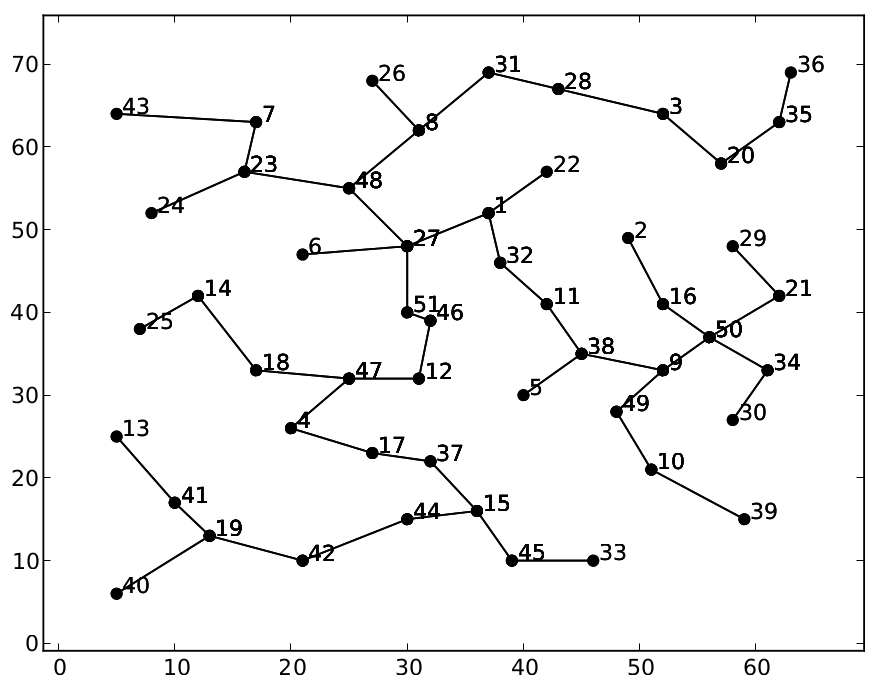
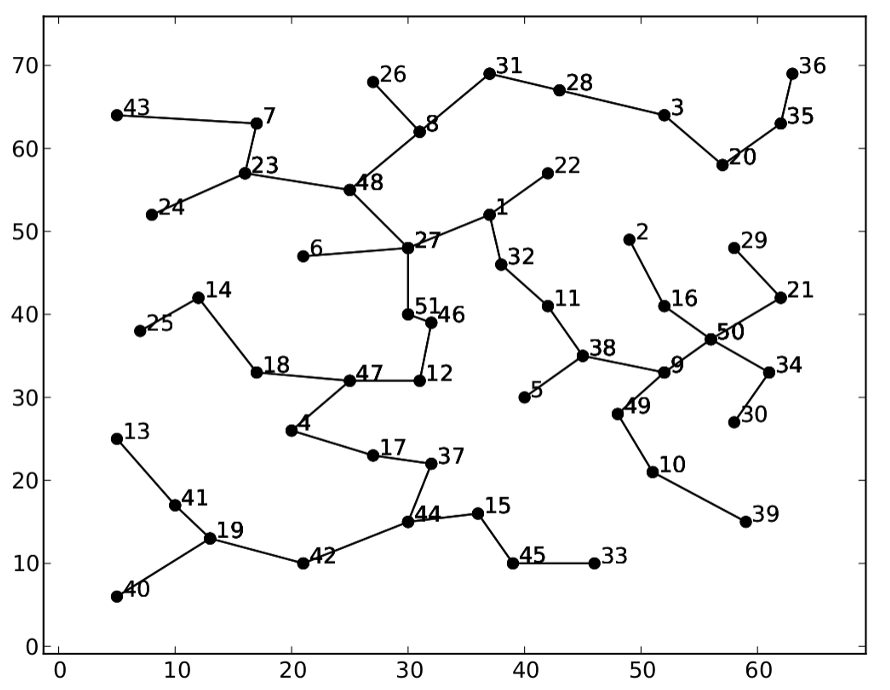
Describe calculations

diff --git a/docs/abschlusspraesentation.tex b/docs/abschlusspraesentation.tex
@@ -101,20 +101,104 @@
     \section{Berechnungen}
     \begin{frame}
         \frametitle{Berechnungen}
-	    \begin{itemize}
-                \item Berechnungen
+            \begin{itemize}
+                \item Berechnung exakte Lösung mit Concorde für TSP
+                \item Einfügen einer Dummy-Stadt (Distanz 0 zu allen Städten)
+                \item Berechnung exakte Lösung mit Concorde für HPP
+                \item Beginn und Ende der Route werden als s und t verwendet
+                \item Berechnung der Lösung mittels eigener Implementation
             \end{itemize}
     \end{frame}
     \begin{frame}
         \frametitle{Berechnungen - TSPLIB}
 	    \begin{itemize}
-                \item Berechnungen TSPLIB
+                \item keiner der Algorithmen im Vorteil
+                \item keine speziellen Charakteristiken
+                \item Ergebnisse entsprechen den Erwartungen
             \end{itemize}
+
+    \begin{table}[H]
+                \centering
+                \begin{tabular}{| p{2.0cm} | p{2.0cm} | p{2.5cm} | p{2.5cm} | p{2.5cm} |}
+                    \hline
+                    \small{\textbf{Name}} &
+                    \small{\textbf{Abweichung TSP}} & 
+                    \small{\textbf{Abweichung HPP}} \\ \hline
+
+                    dantzig42   & 10.31\%   & 15.87\%   \\ \hline
+                    bier127     & 13.06\%   & 13.36\%   \\ \hline
+                    eil51       & 14.61\%   & 14.76\%   \\ \hline
+                    eil101      & 13.20\%   & 14.45\%   \\ \hline
+                    rat195      & 12.27\%   & 9.53\%    \\ \hline
+                    ts225       &  6.19\%   & 7.78\%    \\ \hline
+               \end{tabular}
+        \end{table}
+    \end{frame}
+    \begin{frame}
+        \frametitle{Berechnungen - TSPLIB}
+        \begin{figure}[H]
+            \centering
+            \includegraphics[width=8cm]{gfx/eil51_mst}
+            \caption{minimaler Spannbaum}
+        \end{figure}
+    \end{frame}
+    \begin{frame}
+        \frametitle{Berechnungen - TSPLIB}
+        \begin{figure}[H]
+            \centering
+            \includegraphics[width=8cm]{gfx/eil51_tour}
+            \caption{Win/Win Tour}
+        \end{figure}
+    \end{frame}
+    \begin{frame}
+        \frametitle{Berechnungen - TSPLIB}
+        \begin{figure}[H]
+            \centering
+            \includegraphics[width=8cm]{gfx/eil51_opt}
+            \caption{optimale Lösung}
+        \end{figure}
     \end{frame}
     \begin{frame}
         \frametitle{Berechnungen - eigene Instanzen}
 	    \begin{itemize}
-                \item Berechnungen - eigene Instanzen
+                \item Worst Case Christofides und Hoogeveen disjunkt
+                \item Hoogeveen bei länglichen Instanzen etwas im Vorteil
+                \item keine Unterschiede für zufällige Instanzen
+            \end{itemize}
+    \end{frame}
+    \begin{frame}
+        \frametitle{Berechnungen - eigene Instanzen}
+        \begin{figure}[H]
+            \centering
+            \includegraphics[width=8cm]{gfx/hoogeveen_hpp_mst}
+            \caption{minimaler Spannbaum}
+        \end{figure}
+    \end{frame}
+    \begin{frame}
+        \frametitle{Berechnungen - eigene Instanzen}
+        \begin{figure}[H]
+            \centering
+            \includegraphics[width=8cm]{gfx/hoogeveen_hpp_tour}
+            \caption{Win/Win Tour}
+        \end{figure}
+    \end{frame}
+    \begin{frame}
+        \frametitle{Berechnungen - eigene Instanzen}
+        \begin{figure}[H]
+            \centering
+            \includegraphics[width=8cm]{gfx/hoogeveen_hpp_optimal}
+            \caption{optimale Lösung}
+        \end{figure}
+    \end{frame}
+
+    \section{Fazit}
+    \begin{frame}
+        \frametitle{Fazit}
+	    \begin{itemize}
+                \item Worst Case Instanzen konnten berechnet werden
+                \item Allgemein keine Vorteile
+                \item obere Grenze wird nur sehr selten erreicht
+                \item Abweichung meistens weniger als 15\%
             \end{itemize}
     \end{frame}
 
